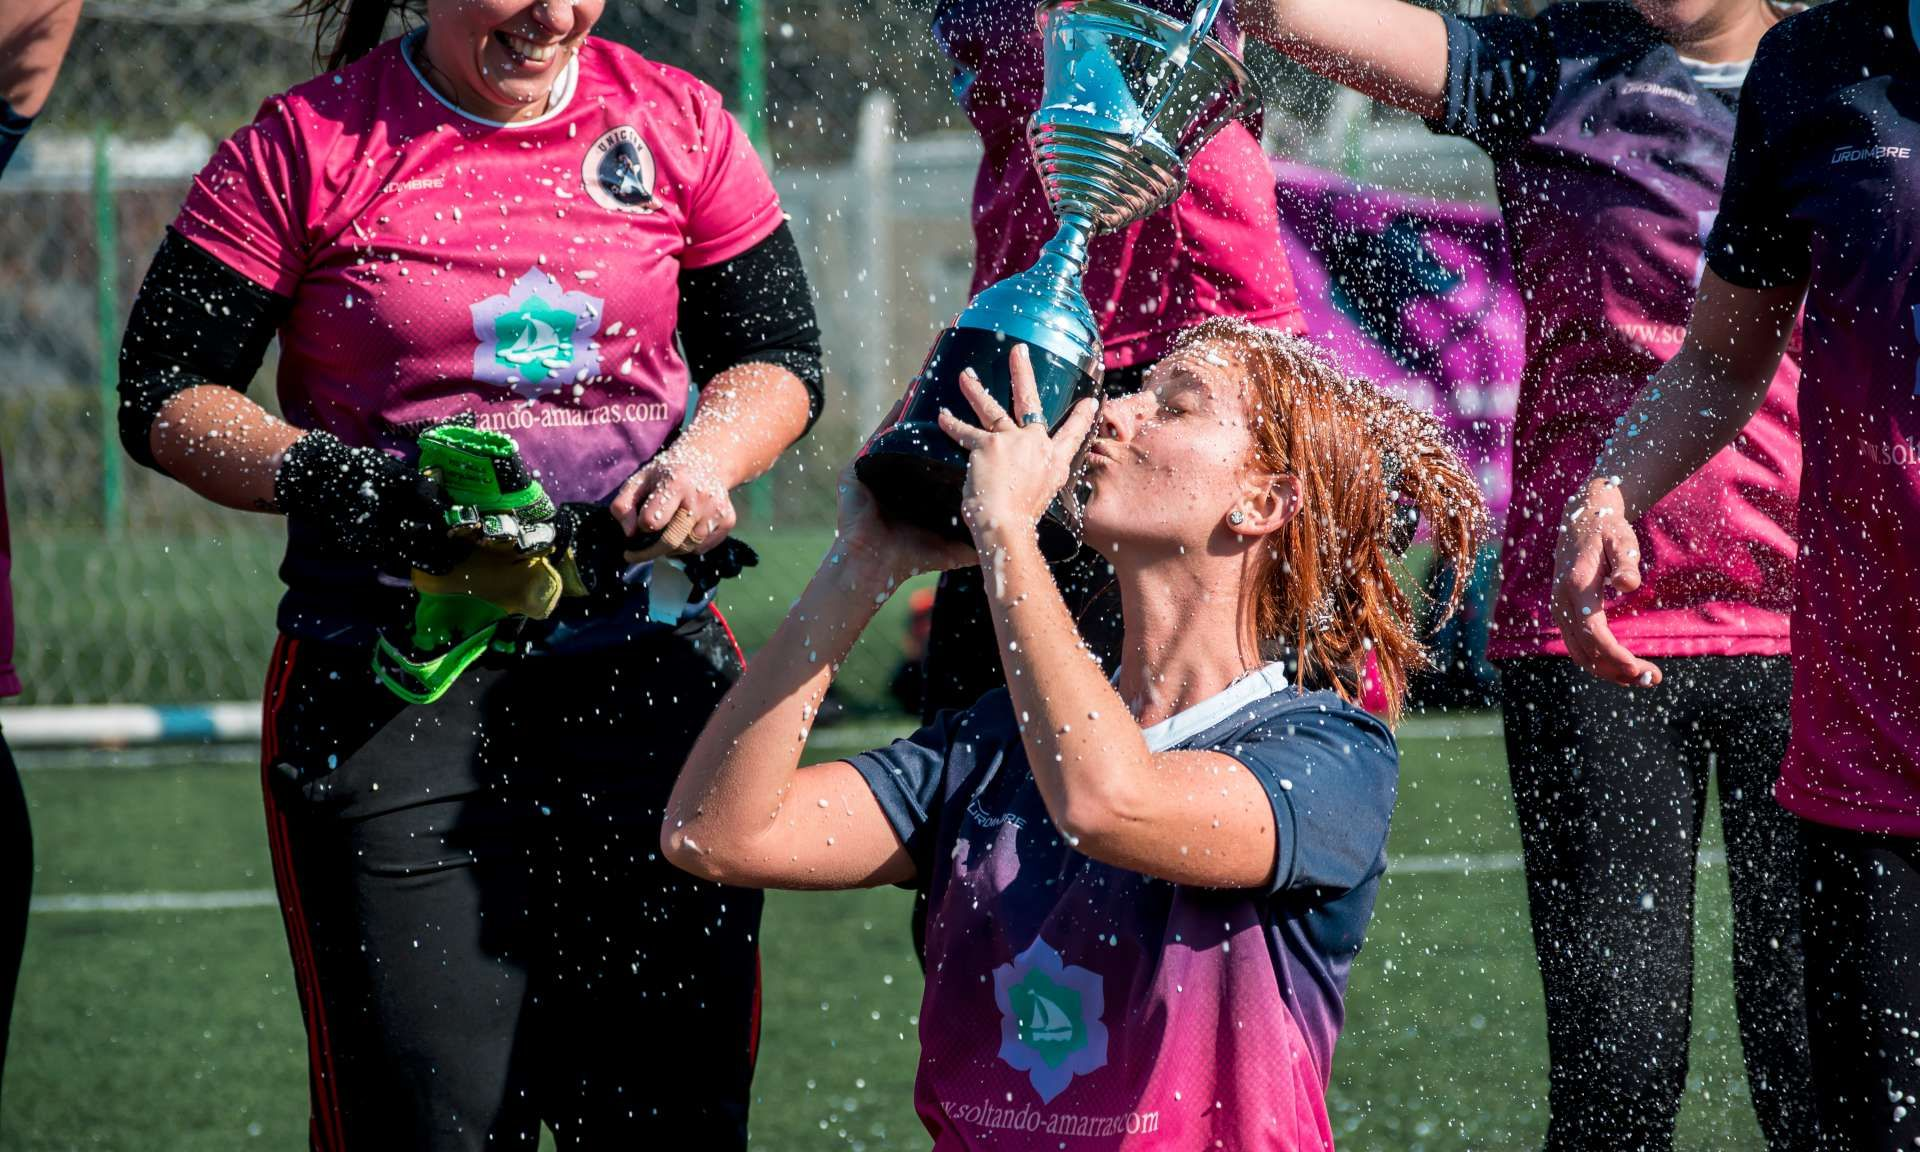
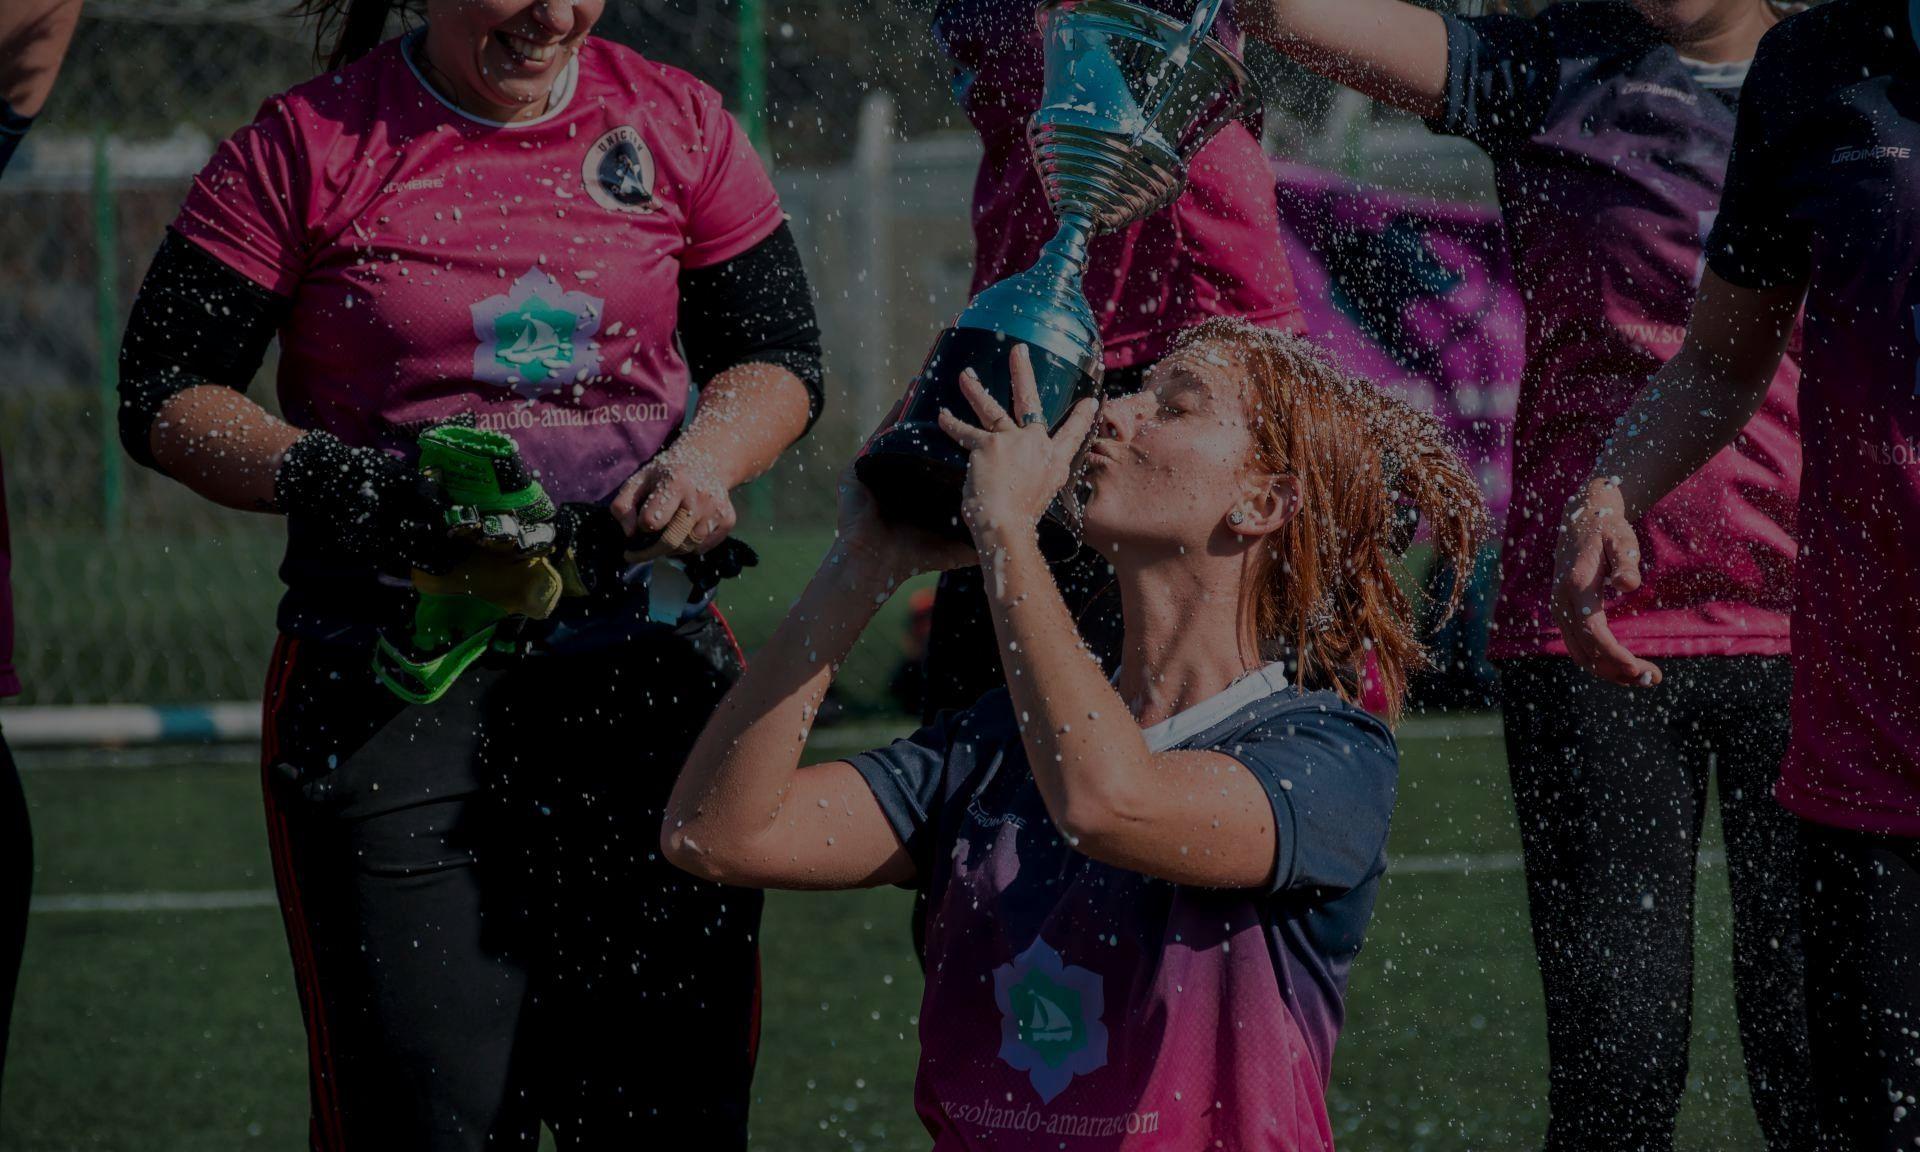
Secciones: Home, Torneos, Galería y Contacto OK

diff --git a/M3U1/sitio_futbolfemenino/css/torneofemenino.css b/M3U1/sitio_futbolfemenino/css/torneofemenino.css
@@ -9,12 +9,11 @@ body {
 .foto_portada {
     background-image: url("../img/home/fondo_portada.jpg");
     background-size: cover;
-
+    opacity: 95%;
 }
 
 header {
     background-color: #920162;
-    /* padding: 10px 0 0; */
     display: flex;
     justify-content: space-between;
     align-items: center;
@@ -93,28 +92,25 @@ nav ul li a.activo {
 
 /* inicio main HOME */
 
-
-/* quito esto hasta tanto no sepa como poner bien la foto de fondo
-main { 
-    background-image: url(https://torneosindiana.com.ar/wp-content/uploads/2019/09/portadaWeb-1920.jpg);
-    background-size: cover;
-    padding: 200px;
-}
-*/
-
-h2 {
-    color: #a80070;
+.inscribite h2 {
+    color: white;
+    text-shadow: 2px 2px 4px #3a0027;
     font-weight: 600;
-    font-size: 31px;
+    font-size: 28px;
+    margin-bottom: 50px;
+    padding: 100px 0px 0px 0px;
 }
 
 .inscribite p{
     font-size: 18px;
-    font-weight: 400;
+    font-weight: 500;
     color: white; 
-    width: 70%;
-    padding-right: 100px;
+    text-shadow: 2px 2px 5px #3a0027;
+    width: 65%;
+    padding-right: 120px;
     box-sizing: border-box;
+    padding-top: 20px;
+    margin-bottom: 70px;
 }
 
 .button a {
@@ -136,15 +132,12 @@ h2 {
     background-color: #3a0027;
     border-color: #3a0027;
 }
-
 /* fin main HOME */
-
 
 
 /* inicio main TORNEOS */
 
 .torneo {
-    /* border: 1px solid #a80070; */
     border-radius: 10px;
     padding: 16px;
     margin: 16px 10px;
@@ -154,6 +147,8 @@ h2 {
 }
 
 main h2 { 
+    font-size: 25px;
+    color: #920162;
     margin-left: 10px;
     margin-top: 30px;
 }
@@ -181,16 +176,7 @@ main h3:hover {
 .torneo:nth-child(even) {
     flex-direction: row-reverse;
 }
-
-/* 
-.f5_fem, 
-.f8_fem {
-    background-color: yellow;
-}
-*/
-
 /* fin main TORNEOS */
-
 
 
 /* inicio main GALERIA */
@@ -217,7 +203,6 @@ main h3:hover {
     transform: scale(0.9);
     transition: all 1s ease; 
     filter: brightness(75%);
-
 }
   
 .galeria img:hover {
@@ -225,11 +210,10 @@ main h3:hover {
     transform: scale(1.2);  
     filter: brightness(100%);
 }  
-
 /* fin main GALERIA */
 
-/* inicio main CONTACTO */
 
+/* inicio main CONTACTO */
 
 .contacto {
     display: flex;
@@ -271,7 +255,7 @@ main h3:hover {
     color: white;
     padding: 6px 20px;
     width: auto;
-    margin-left: 88%;
+    margin-left: 83%;
     cursor: pointer;
 }
 
@@ -281,28 +265,41 @@ main h3:hover {
 }
 
 .redes {
-    background-color: pink;
-}
-
-.redes img {
-    width: 50px;
-    height: 50px;
+    /* background-color: pink; */
     display: flex;
 }
 
-.redes ul li {
-    margin-top: 40px;
+.redes img {
+    width: 100px;
+    height: 100px;
+    display: flex;
+    flex-direction: column-reverse;
+    margin: auto;
+    padding-top: 17px;
+}
+
+.redes ul li{
+    text-decoration: none;
     display: inline-block;
-    margin: 10px;
-    padding: 25px;
+    border-radius: 10px;
+    height: 150px;
+    width: 90px;
+    text-align: center;
+    margin: 5px;
+    padding: 20px;
+}
+
+.redes ul li {
+    color: #3a0027;
+    font-weight: 700;
 }
 
 .redes ul li:hover {
     cursor: pointer;
     border-radius: 10px;
-    box-shadow: 0px 0px 38px -7px rgba(0,0,0,0.75);
-    -webkit-box-shadow: 0px 0px 38px -7px rgba(0,0,0,0.75);
-    -moz-box-shadow: 0px 0px 38px -7px rgba(0,0,0,0.75);
+    box-shadow: 0px 0px 38px -7px rgba(104, 0, 55, 0.75);
+    -webkit-box-shadow: 0px 0px 38px -7px rgba(104, 0, 55, 0.75);
+    -moz-box-shadow: 0px 0px 38px -7px rgba(104, 0, 55, 0.75);
 }
 
 /* fin main CONTACTO */

diff --git a/M3U1/sitio_futbolfemenino/contacto.html b/M3U1/sitio_futbolfemenino/contacto.html
@@ -78,11 +78,11 @@
             <div class="redes">
                 <ul>
                     <li>Instagram<a href="#"><img
-                                src="https://cdn-icons.flaticon.com/png/512/4138/premium/4138124.png?token=exp=1653874033~hmac=0b724c34c498cab8f1cc42c7ed074d54" alt="instagram"></li>
+                                src="img/insta.png" target="_blank"></a></li>
                     <li>Facebook<a href="#"><img
-                                src="https://cdn-icons.flaticon.com/png/512/4494/premium/4494475.png?token=exp=1653874035~hmac=71762e6c0e71d42997bae85d493a2cf8" alt="facebook"></li>
+                                src="img/face.png" alt="facebook" target="_blank"></a></li>
                     <li>Twitter<a href="#"><img
-                                src="https://cdn-icons.flaticon.com/png/512/4494/premium/4494477.png?token=exp=1653874028~hmac=3b38f269ee2df5575c10ef707a233d45" alt="twitter"></li>
+                                src="img/twit.png" alt="twitter" target="_blank"></a></li>
                 </ul>
             </div>
         </div>

diff --git a/M3U1/sitio_futbolfemenino/index.html b/M3U1/sitio_futbolfemenino/index.html
@@ -41,7 +41,7 @@
     <main>
         <div>
             <section class="holder inscribite">
-                <h2>Vení a jugar con tu equipo!</h2>
+                <h2>¡Vení a jugar con tu equipo!</h2>
                 <p>Jugá en nuestros torneos y viví momentos inolvidables con tus amigas. Tenemos F5, F8 femenino y
                     mixtos. Torneos de Verano, Apertura, Invierno y Clausura.</p>
                 <button type="button" class="button"><a href="contacto.html">Inscribite</a></button>
